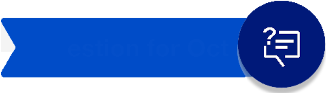
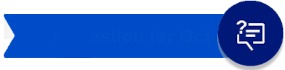
Improve visuals for question of month

Changed region(s): [[0.0, 0.0, 0.9825, 1.0], [0.9825, 0.2571, 1.0, 0.6857], [0.9544, 0.7714, 0.9825, 0.8286]]

diff --git a/assets/css/style.css b/assets/css/style.css
@@ -624,31 +624,30 @@ div#components img {
 
 #feedback {
   position: fixed; 
-  bottom: 10px; 
-  right: 10px; 
-  border: 2px #212529 solid; 
+  bottom: 95px; 
+  right: 70px; 
   height: 400px;
   background-color: white;
-  border-radius: 5px;
-  z-index: 1000;
+  z-index: 999;
   display: none;
+  box-shadow: 0px 0px 10px #b2b2b2;
 }
 
 #feedback-closed {
   position: fixed; 
-  bottom: 10px; 
-  right: 10px;
+  bottom: 24px; 
+  right: 24px;
   display: none;
   z-index: 1000;
   background-image: url('../img/question-of-month.png');
+  background-repeat: no-repeat;
   font-size: 24px;
   margin: 2px;
   font-weight: bold;
-  padding-left: 6px;
-  padding-right: 6px;
+  padding: 6px 12px;
   cursor: pointer;    
   width: 326px;
-  height: 93px;
+  height: 83px;
 }
 
 #feedback-closed.feedback-hide, #feedback.feedback-hide, .announcementsection .feedback-hide {
@@ -659,9 +658,14 @@ div#components img {
   font-size: 24px;
   margin: 2px;
   font-weight: bold;
-  padding-left: 6px;
-  padding-right: 6px;
+  padding: 4px 6px 0 22px;
   cursor: pointer;
+}
+
+.feedback-container {
+  height: 356px; 
+  width: 270px; 
+  border: none;
 }
 
 @media (min-width: 896px) and (min-height: 530px) {

diff --git a/assets/feedback.js b/assets/feedback.js
@@ -1,6 +1,5 @@
 function toggleFeedback() {
     toggle('feedback');
-    toggle('feedback-closed');
 
     localStorage.setItem("zowe-feedback-open", getCurrentDate());
 }
@@ -23,6 +22,7 @@ const feedbackOpen = localStorage.getItem("zowe-feedback-open");
 // Hide feedback when already shown in this month
 if (feedbackOpen === getCurrentDate()) {
     toggleFeedback();
+    toggle('feedback-closed');
 }
 
 const dateObj = new Date();

diff --git a/index.md b/index.md
@@ -66,7 +66,7 @@ redirect_from:
 
 {% if site.data.question_of_month %}  
   <div id="feedback-closed" class=" feedback-hide" onclick="toggleFeedback();">
-    <div style="padding-top: 30px; padding-left: 15px; color: white;">
+    <div style="padding-top: 12px; padding-left: 15px; color: white;">
       <span class="question-name">Question for Jan</span>
     </div>
   </div>
@@ -74,7 +74,7 @@ redirect_from:
   <div id="feedback">
     <div class="feedback-header" onclick="toggleFeedback();"><span class="question-name" style="font-size: smaller;">Question for August</span> <div style="float: right; cursor: pointer;"><i class="fa-solid fa-circle-xmark"></i></div></div>
     <div>
-      <iframe src="{{site.data.question_of_month.link}}" style="height: 357px; width: 270px;"></iframe>
+      <iframe class="feedback-container" src="{{site.data.question_of_month.link}}"></iframe>
     </div>
   </div>
 {% endif %}
